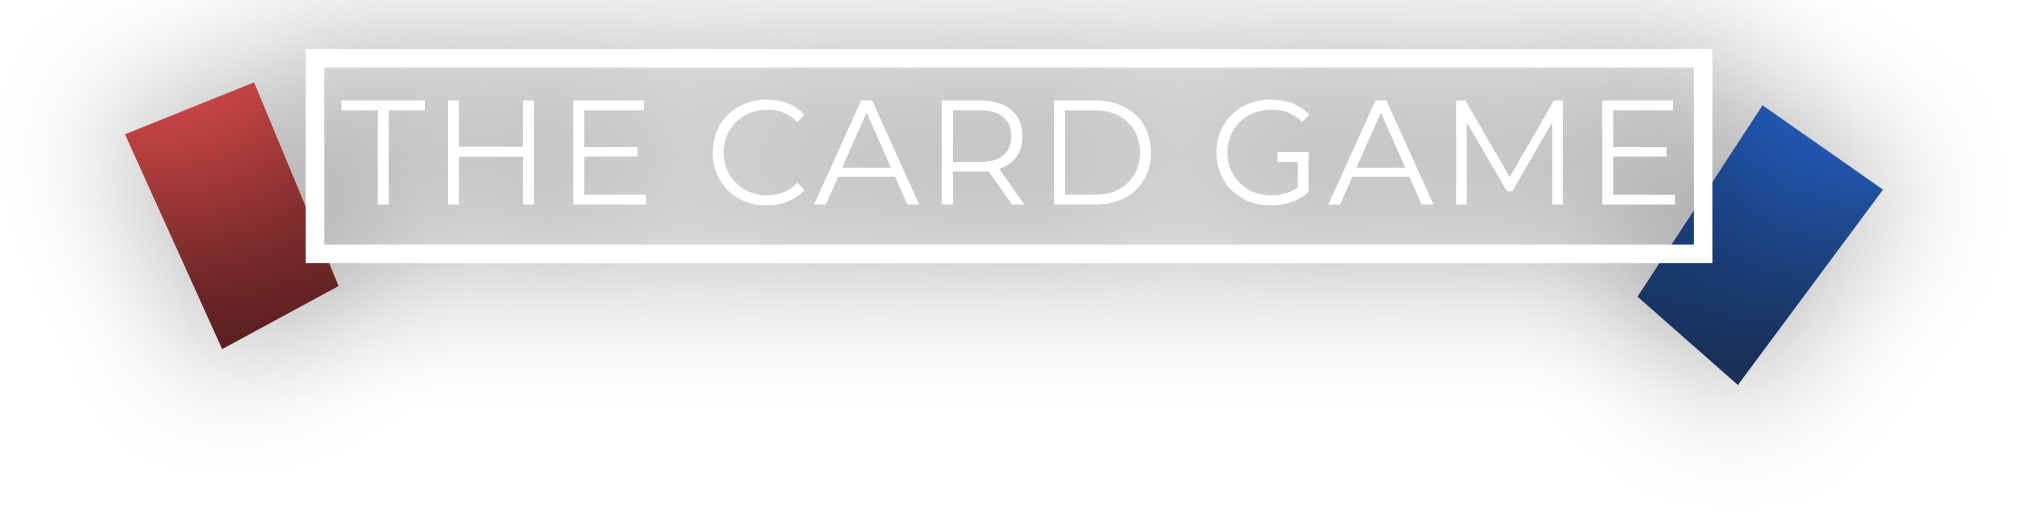
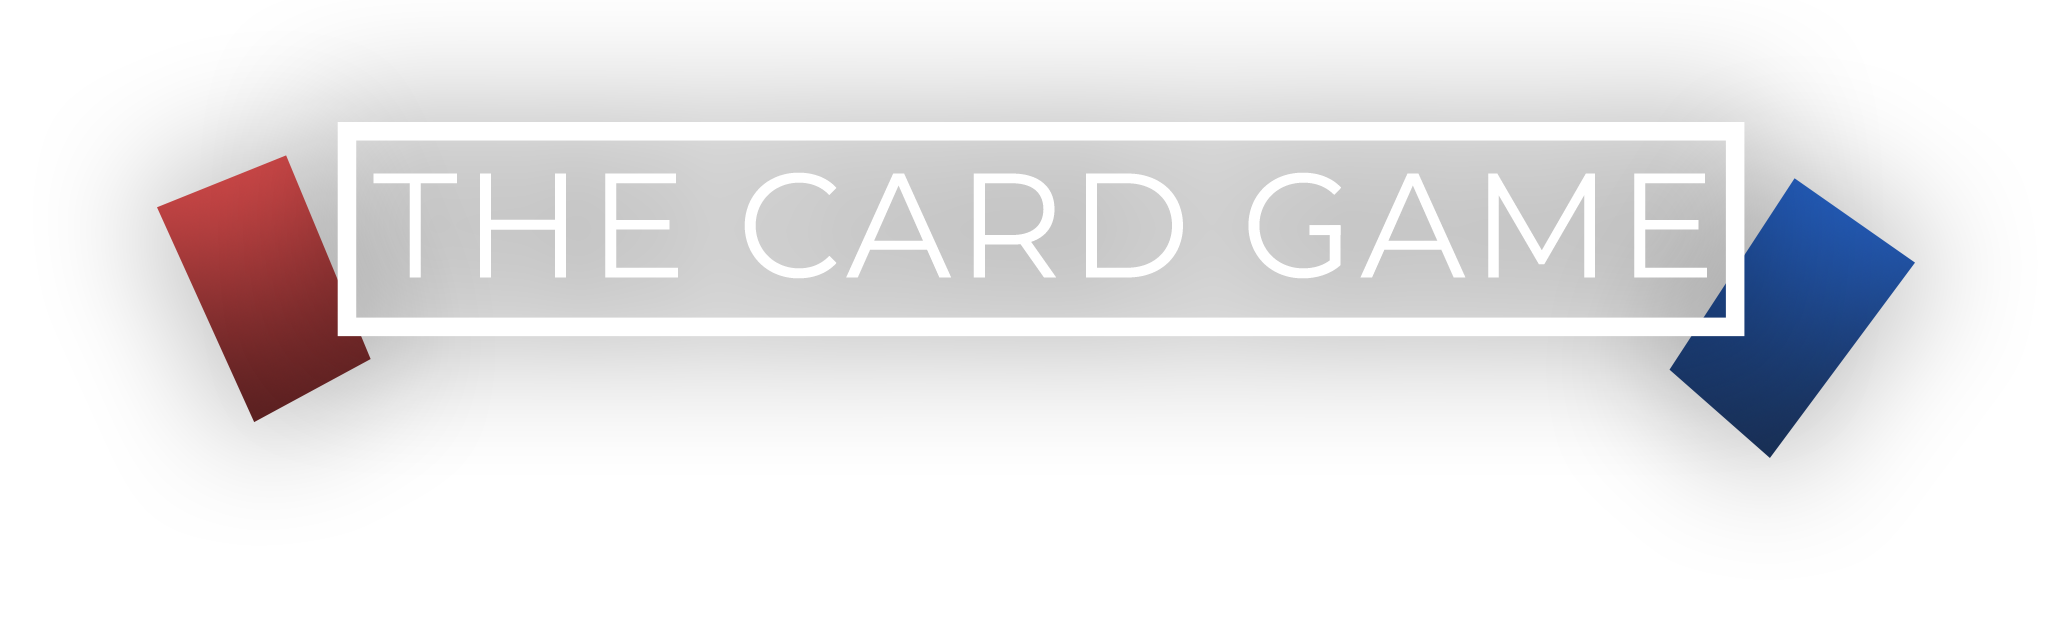
start-page CSS uppdaterad

diff --git a/src/start/startView.js b/src/start/startView.js
@@ -31,7 +31,6 @@ function StartView({email, setEmail, password, setPassword, loginError, setLogin
             <Row>
                 <Col>
                     <div id="text">
-                        Välkommen till The Card Game! Här är reglerna: Lorem ipsum dolor sit amet, no consequat assueverit honestatis vix. Nam an error mundi veritus, quem tractatos at sea. Eos cu soleat graece. Volumus repudiandae pri eu, ad usu veniam propriae assueverit. Mundi primis aperiam an eam, facete omittantur eum at. Eligendi dissentiet concludaturque ne nec, nam et nisl ornatus voluptatibus, ea prompta fabulas pri.
                     </div>  
                 </Col>
             </Row>
@@ -53,7 +52,6 @@ function StartView({email, setEmail, password, setPassword, loginError, setLogin
                                 />
 
                                 <Form.Text className="text-muted">
-                                    Använd samma mejl som du kommunicerat med oss med
                                 </Form.Text>
                             </Form.Group>
 

diff --git a/src/start/startView.css b/src/start/startView.css
@@ -5,7 +5,8 @@
     }
     
 .startContainer #headerimg {
-    max-width: 80%;
+    margin-top: 0;
+    max-width: 100%;
     }
     
 .startContainer #text {
@@ -19,7 +20,6 @@
     background-color: rgba(2, 2, 2, 0.541);
     border-radius: 50px;
     text-align: center;
-    margin-top: 50px;
     padding: 40px;
 
     /* Shadow: */  
